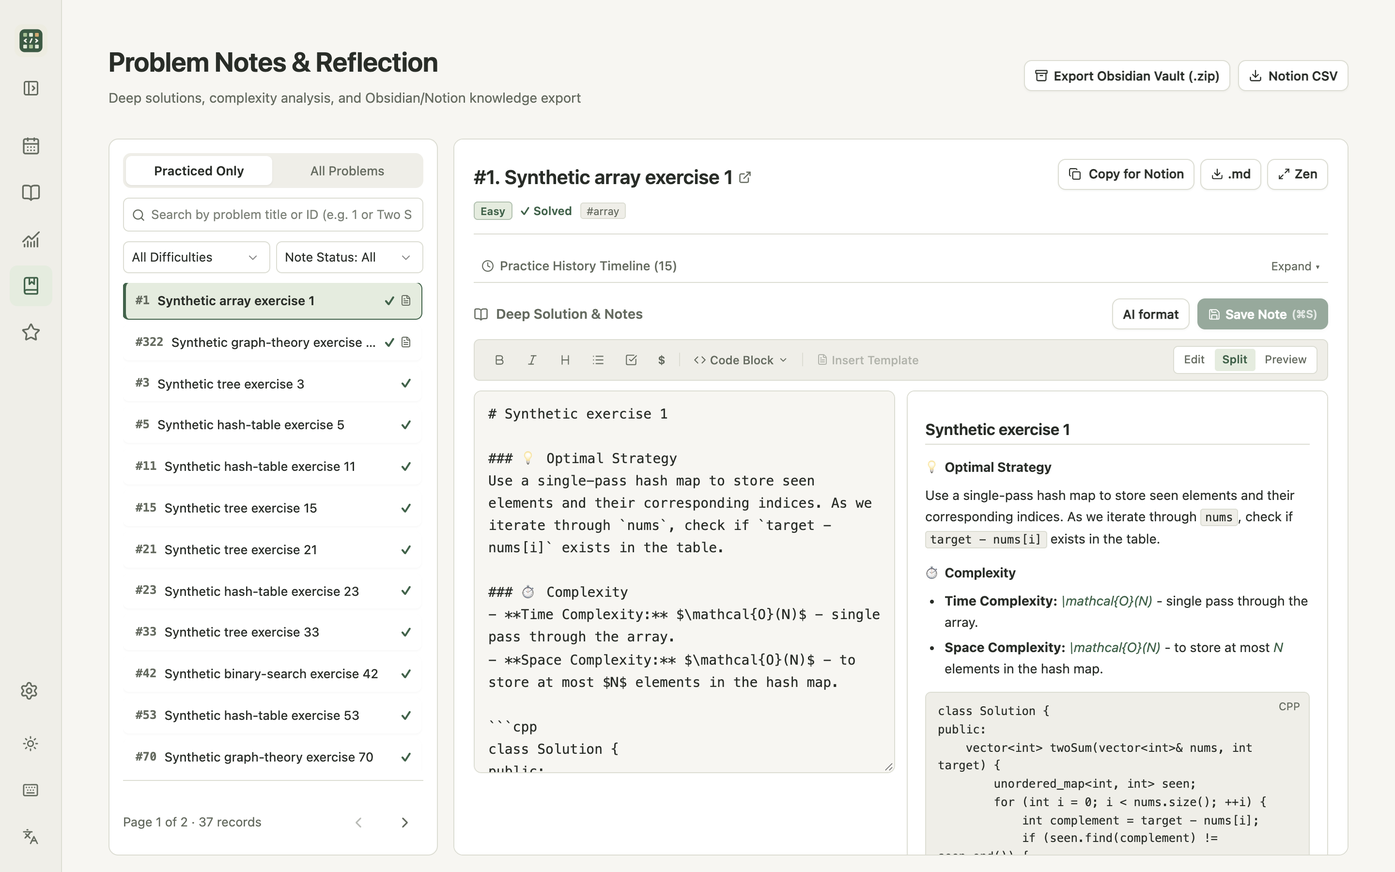
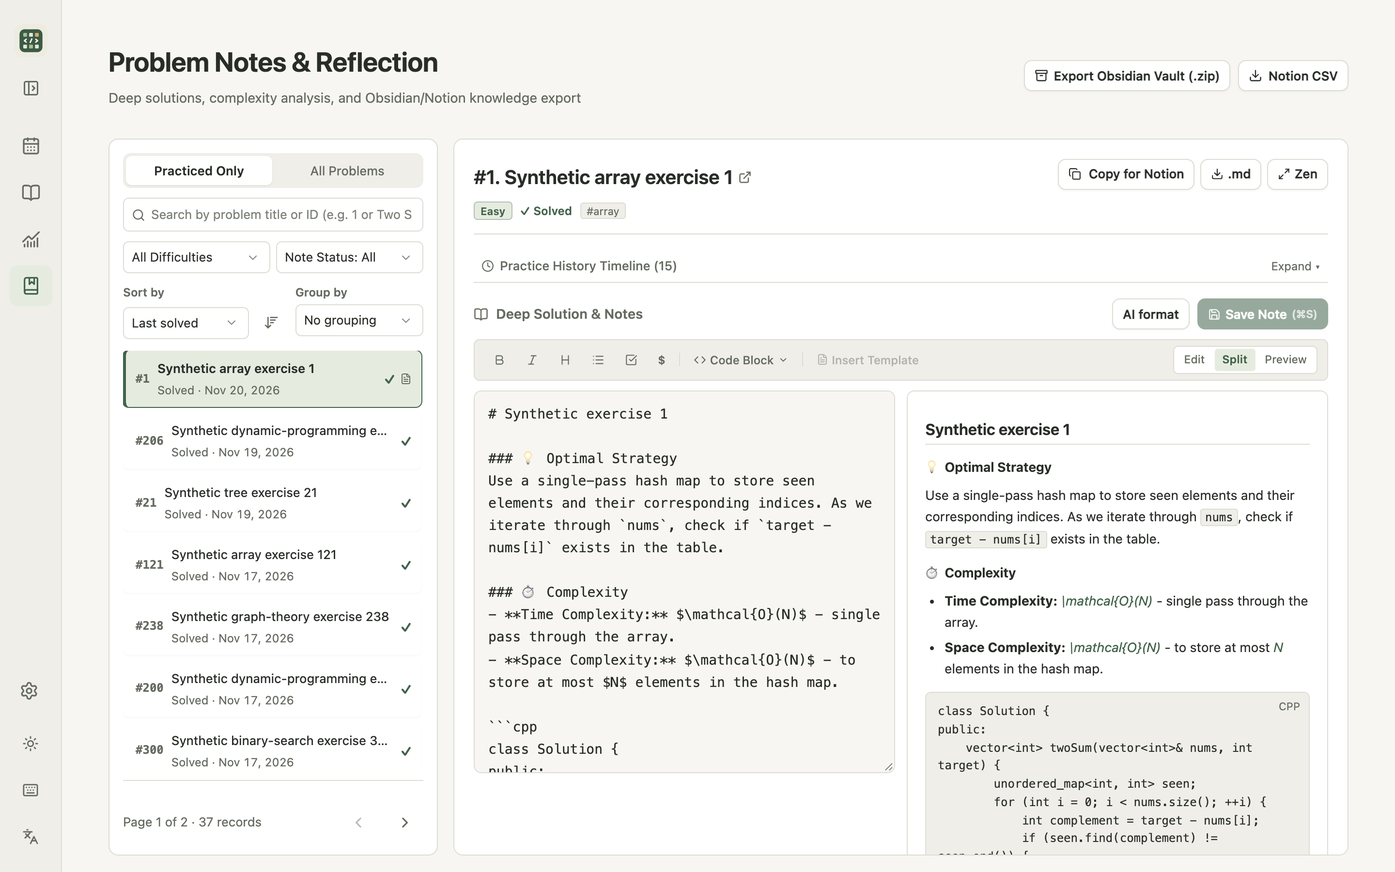
chore: prepare the 1.5.1 release candidate

Changed region(s): [[0.0625, 0.3111, 0.3125, 0.5911], [0.0938, 0.6222, 0.2812, 0.9022]]

diff --git a/packages/database/src/store.ts b/packages/database/src/store.ts
@@ -761,7 +761,7 @@ export class CatalogStore {
 
   /** Export catalog and all saved business history for another device. */
   public exportMigrationBundle(versionOrOptions: 2 | 3 | 5 | { formatVersion?: 2 | 3 | 5 } = 5): SnapshotBundleV2 | SnapshotBundleV3 | SnapshotBundleV5 {
-    return exportMigrationBundle(this.db, '1.5.0', versionOrOptions);
+    return exportMigrationBundle(this.db, '1.5.1', versionOrOptions);
   }
 
   /** Atomically restore database state from a SnapshotBundle with automatic safety backup. */

diff --git a/apps/server/src/app.ts b/apps/server/src/app.ts
@@ -24,7 +24,7 @@ import { createTrackerApplication } from '../../../packages/application/src/appl
 import { localModelService } from '../../mcp/src/profile.ts';
 
 /** Version reported by health checks and written into sync snapshots. */
-export const APP_VERSION = '1.5.0';
+export const APP_VERSION = '1.5.1';
 
 /** Options for building Fastify app. */
 export interface AppOptions {

diff --git a/apps/mcp/src/version.ts b/apps/mcp/src/version.ts
@@ -1,2 +1,2 @@
 /** Reported in MCP initialization and tracker_status; keep in step with apps/mcp/package.json. */
-export const MCP_SERVER_VERSION = '1.5.0';
+export const MCP_SERVER_VERSION = '1.5.1';

diff --git a/README.md b/README.md
@@ -16,7 +16,7 @@ A local-first desktop workbench for algorithm practice: bring your own JSONL cat
 
 LeetCode Tracker packages the React interface, Fastify API, SQLite engine (schema v12), and a private Node.js 26.13.0 runtime into native Tauri desktop apps for **Windows 11 x64** and **Apple Silicon macOS 14+** (`aarch64-apple-darwin`) with aligned behavior and a single-file cross-device migration bundle. **End users do not need to install Node.js, npm, Git, or Rust.**
 
-Version 1.5.0 adds ordered goal lists, a Favorites library, and a new Today overview. Use App updates to upgrade from 1.4.0 or 1.4.1. Upgrading from 1.3.1 requires one manual install. [1.5.0 release notes](docs/releases/1.5.0.md)
+Version 1.5.1 brings the catalog, favorites and goal lists into one Problems workspace. Use App updates on official desktop builds from 1.4.0 onward. Upgrading from 1.3.1 or earlier requires one manual install. [1.5.1 release notes](docs/releases/1.5.1.md)
 
 ## Download and start
 
@@ -24,8 +24,8 @@ Download the installer for your OS from the [latest release](https://github.com/
 
 | Platform | Download | How to install & open |
 | --- | --- | --- |
-| **Windows 11 x64** | `LeetCode-Tracker_1.5.0_x64-setup.exe` | 1. Run the per-user installer (no administrator rights needed).<br>2. If Windows SmartScreen warns that the installer is unsigned, click **More info → Run anyway**.<br>3. Launch **LeetCode Tracker** from the Start Menu or Desktop shortcut. |
-| **macOS 14+ (Apple Silicon)** | `LeetCode-Tracker_1.5.0_aarch64.dmg` | 1. Open the `.dmg` and drag **LeetCode Tracker.app** into **Applications**.<br>2. Because the bundle is ad-hoc signed and unnotarized, if Gatekeeper warns on first open, go to **System Settings → Privacy & Security → Open Anyway** (or right-click **LeetCode Tracker.app → Open**). If needed, verify checksum and run `xattr -cr "/Applications/LeetCode Tracker.app"`.<br>3. Closing the red window button hides the window while keeping the sidecar ready in the Dock; click the Dock icon to reopen or press `Cmd+Q` to quit cleanly. |
+| **Windows 11 x64** | `LeetCode-Tracker_1.5.1_x64-setup.exe` | 1. Run the per-user installer (no administrator rights needed).<br>2. If Windows SmartScreen warns that the installer is unsigned, click **More info → Run anyway**.<br>3. Launch **LeetCode Tracker** from the Start Menu or Desktop shortcut. |
+| **macOS 14+ (Apple Silicon)** | `LeetCode-Tracker_1.5.1_aarch64.dmg` | 1. Open the `.dmg` and drag **LeetCode Tracker.app** into **Applications**.<br>2. Because the bundle is ad-hoc signed and unnotarized, if Gatekeeper warns on first open, go to **System Settings → Privacy & Security → Open Anyway** (or right-click **LeetCode Tracker.app → Open**). If needed, verify checksum and run `xattr -cr "/Applications/LeetCode Tracker.app"`.<br>3. Closing the red window button hides the window while keeping the sidecar ready in the Dock; click the Dock icon to reopen or press `Cmd+Q` to quit cleanly. |
 
 > [!TIP]
 > **Running from a source checkout instead?** Run `npm run desktop` (works on both Windows and macOS), `start.bat` on Windows, or `npm run desktop:mac` / `./scripts/start-desktop.sh` on macOS (pass `--port 3001` or `PORT=3001` to customize the port). Source mode requires **Node.js >=26.13.0 <27**.
@@ -37,7 +37,7 @@ Download the installer for your OS from the [latest release](https://github.com/
    - **Problems**: Import your own JSON Lines (`.jsonl`) catalog (upload a file or paste text).
    - **Study rhythm**: Pick the recommended weekday preset (`Weekdays · 3 a day`, 1 Easy + 2 Medium with 1 review) or open **Study schedule** to customize counts, difficulty mix, topic tags, and review mode. Any step can be skipped and updated later.
 2. **Daily practice & timer (`Today` & `Problems`)**: Click a problem title to open it in your system browser, use the built-in stopwatch to time your attempt, and click the completion circle to log completion (with optional duration, outcome feedback `Independent` / `Assisted` / `Unsolved`, and short notes). Use **Add one**, **Adjust today**, or **Replace** anytime.
-   - **Goal lists**: Open **Problems → Goal lists** to browse all lists, check their progress, or edit their contents. **Use on Today** selects the list for daily practice. Today shows daily plan progress, the selected goal’s completion in saved order, and a seven-day solve chart above the two task lists. Select a day to see its practice records. Use the list selector to switch goals. In **Today → New list**, search your catalog or paste problem IDs in practice order. In **Problems**, check rows across pages or filters and choose **Create goal list**. The draft starts in problem-number order and can be rearranged before saving. Scroll the list and check off problems as you go. **Edit** lets you reorder, replace, remove, or reopen an entry. Checking a problem shared with today’s strategy completes both entries with one practice record. Correcting or revoking its supporting practice updates the linked checkmark. It stays checked while another qualifying record exists. Goal-only and older checkmarks without a recorded link stay local to their list.
+   - **Goal lists**: Open **Problems → Goal lists** to browse all lists, check their progress, or edit their contents. **Use on Today** selects the list for daily practice. Today shows daily plan progress, the selected goal’s completion in saved order, and a seven-day solve chart above the two task lists. Select a day to see its practice records. Use the list selector to switch goals. In **Today → New list**, search your catalog or paste problem IDs in practice order. In **Problems**, check rows across pages or filters and choose **Create goal list**. The draft starts in problem-number order and can be rearranged before saving. Scroll the list and check off problems as you go. **Edit** lets you reorder, replace, remove, or reopen an entry. Checking a goal-only problem on Today saves practice and offers optional details. When the goal entry is shared with today’s strategy, both entries use the same completion evidence, including an imported Accepted submission. Correcting or revoking that evidence reopens the linked entries when no other qualifying evidence remains. Older unlinked checkmarks stay local to their list.
    - In **Today**, click the star beside a strategy task or goal-list problem. Choose any folders and click **Save favorite**, or leave them unchecked to save only to **All favorites**. Click a filled star to change folders or remove the favorite.
    - In **Problems**, the star saves a problem in **All favorites** and any folders you select. To save several at once, check rows in **Problems** and choose **Favorite**. This adds them to the selected folders and keeps their existing memberships. Open **Problems → Favorites** to browse your saved problems and manage folders. In **Favorites**, check problems across folders or pages, then choose **Create goal list** or **Unfavorite**. Confirming removal clears the selected problems from every favorite folder.
    - Use the flag beside a problem in **Problems**, **Favorites** or **Today** to choose its goal lists or create one. A filled flag means the problem belongs to at least one list. Adding it to another list places it at the end.
@@ -45,7 +45,7 @@ Download the installer for your OS from the [latest release](https://github.com/
 3. **Review progress & Topic Insights (`Progress`)**: View outcome KPIs, the 365-day activity heatmap, difficulty mastery, topics worth attention, and the searchable, recency-ordered **Topic Insights** table (expand any topic row for 30-day evidence).
 4. **Write notes, export, or switch computers (`Notes` & `Settings`)**: Edit Markdown notes with Split/Edit/Preview modes, local format-on-save (with undo), optional AI formatting, and Notion card copying or Markdown, ZIP, and CSV export. Moving between Windows and macOS? Export one **Snapshot Bundle v5** under **Settings → Data → Export migration file** and import it on the other computer (**Settings → Data → Import migration file**).
 
-The Windows installer is **unsigned** and uses the Evergreen WebView2 runtime (downloading its bootstrapper if missing, which requires internet access). Windows 11 x64 is the primary Windows target; clean-machine installation, Windows 10 compatibility, Apple Developer ID notarization, and non-developer Mac Gatekeeper UX remain outside automated checks. See [installation, data paths, and troubleshooting](docs/desktop.md) and [1.5.0 release notes](docs/releases/1.5.0.md).
+The Windows installer is **unsigned** and uses the Evergreen WebView2 runtime (downloading its bootstrapper if missing, which requires internet access). Windows 11 x64 is the primary Windows target; clean-machine installation, Windows 10 compatibility, Apple Developer ID notarization, and non-developer Mac Gatekeeper UX remain outside automated checks. See [installation, data paths, and troubleshooting](docs/desktop.md) and [1.5.1 release notes](docs/releases/1.5.1.md).
 
 ### Bring your own catalog
 
@@ -82,7 +82,7 @@ Browse a filterable problem list alongside a Markdown editor and CommonMark/GFM 
 
 ### Appearance and keyboard access
 
-Ten palettes, English/Chinese text, and light/dark/system appearance support desktop work, and selecting a palette dynamically tints the window/Dock icon to match. The eight screenshots show 1.5.0 in English with the default light palette and synthetic catalog and practice data.
+Ten palettes, English/Chinese text, and light/dark/system appearance support desktop work, and selecting a palette dynamically tints the window/Dock icon to match. The eight screenshots show 1.5.1 in English with the default light palette and synthetic catalog and practice data.
 
 | Shortcut | Action |
 | --- | --- |
@@ -154,7 +154,7 @@ CI checks TypeScript, automated tests, the production frontend, documentation, n
 
 ## Documentation
 
-- [Documentation index](docs/README.md) · [Desktop installation](docs/desktop.md) · [1.5.0 release notes](docs/releases/1.5.0.md) · [MCP setup](apps/mcp/README.md)
+- [Documentation index](docs/README.md) · [Desktop installation](docs/desktop.md) · [1.5.1 release notes](docs/releases/1.5.1.md) · [MCP setup](apps/mcp/README.md)
 - [Data format](docs/data-format.md) · [Device sync](docs/sync.md) · [AI providers](docs/llm-providers.md) · [Topic insights](docs/topic-practice-insights.md)
 - [Architecture](docs/architecture.md) · [Applications](apps/README.md) · [Shared packages](packages/README.md)
 - [Tests](tests/README.md) · [Scripts](scripts/README.md) · [Roadmap](docs/roadmap.md)

diff --git a/docs/desktop.md b/docs/desktop.md
@@ -1,8 +1,8 @@
 # Desktop Application & Distribution Guide
 
-LeetCode Tracker provides native desktop packages for **Windows 11 x64** (`LeetCode-Tracker_1.5.0_x64-setup.exe`, NSIS installer) and **Apple Silicon macOS 14+** (`LeetCode-Tracker_1.5.0_aarch64.dmg`, ad-hoc signed `.app`/`.dmg`). Both platforms run the exact same local-first React UI, Fastify `/api/v1` service, SQLite v12 storage engine, and bundled private **Node.js 26.13.0** runtime. End users have **zero requirement** to install Node.js, npm, Git, or Rust.
+LeetCode Tracker provides native desktop packages for **Windows 11 x64** (`LeetCode-Tracker_1.5.1_x64-setup.exe`, NSIS installer) and **Apple Silicon macOS 14+** (`LeetCode-Tracker_1.5.1_aarch64.dmg`, ad-hoc signed `.app`/`.dmg`). Both platforms run the exact same local-first React UI, Fastify `/api/v1` service, SQLite v12 storage engine, and bundled private **Node.js 26.13.0** runtime. End users have **zero requirement** to install Node.js, npm, Git, or Rust.
 
-Download installers and `SHA256SUMS.txt` from the [latest release](https://github.com/Yide-Milo-Li/LeetCode-Tracker/releases/latest). Automated boundary tests and local/CI packaging do not establish clean-VM Windows installation, populated-profile upgrade/downgrade compatibility, Windows 10 compatibility, Apple notarization, or the full WebView2/Gatekeeper acceptance matrix; see the [1.5.0 release notes](releases/1.5.0.md).
+Download installers and `SHA256SUMS.txt` from the [latest release](https://github.com/Yide-Milo-Li/LeetCode-Tracker/releases/latest). Automated boundary tests and local/CI packaging do not establish clean-VM Windows installation, populated-profile upgrade/downgrade compatibility, Windows 10 compatibility, Apple notarization, or the full WebView2/Gatekeeper acceptance matrix; see the [1.5.1 release notes](releases/1.5.1.md).
 
 ### Known 1.0.0 startup failure
 
@@ -30,7 +30,7 @@ The historical published 1.0.0 Windows host can fail before readiness because Ta
 
 #### Scope & Requirements
 - **Target hardware & OS**: Apple Silicon (`arm64` / `aarch64-apple-darwin`), **macOS 14 (Sonoma) or newer**, using the built-in system `WKWebView` (no separate WebView runtime download required). Intel Macs, Universal binaries, Apple notarization, and App Store distribution are outside the current scope.
-- **Package**: Produces an ad-hoc signed (`signingIdentity: "-"`) `LeetCode Tracker.app` and `LeetCode-Tracker_1.5.0_aarch64.dmg` (`LeetCode Tracker_1.5.0_aarch64.dmg` from local Tauri output).
+- **Package**: Produces an ad-hoc signed (`signingIdentity: "-"`) `LeetCode Tracker.app` and `LeetCode-Tracker_1.5.1_aarch64.dmg` (`LeetCode Tracker_1.5.1_aarch64.dmg` from local Tauri output).
 
 #### Installation & First Launch (DMG / `.app`)
 1. Download the `_aarch64.dmg` disk image (and `SHA256SUMS.txt`) from the [latest release](https://github.com/Yide-Milo-Li/LeetCode-Tracker/releases/latest), double-click the `.dmg`, and drag **LeetCode Tracker.app** into **Applications** (do not run directly from inside the read-only DMG if you want standard Dock pinning and upgrades; user data is always stored outside the `.app` under `~/Library/Application Support/com.leetcodetracker.desktop/`).
@@ -52,7 +52,7 @@ The historical published 1.0.0 Windows host can fail before readiness because Ta
 
 | Area | Windows 11 x64 | macOS 14+ (Apple Silicon) |
 | --- | --- | --- |
-| **Installer / Package** | Per-user NSIS `.exe` (`LeetCode-Tracker_1.5.0_x64-setup.exe`) | Ad-hoc signed `.dmg` / `.app` (`LeetCode-Tracker_1.5.0_aarch64.dmg`) |
+| **Installer / Package** | Per-user NSIS `.exe` (`LeetCode-Tracker_1.5.1_x64-setup.exe`) | Ad-hoc signed `.dmg` / `.app` (`LeetCode-Tracker_1.5.1_aarch64.dmg`) |
 | **WebView Runtime** | Evergreen WebView2 (`downloadBootstrapper`) | Built-in system `WKWebView` |
 | **Bundled Sidecar** | Private `Node.js 26.13.0` (`node.exe`) + `desktop-server.mjs` | Private `Node.js 26.13.0` (`node`) + `desktop-server.mjs` |
 | **Window Close vs Quit** | Closing main window initiates graceful sidecar shutdown (10s deadline) | Red close button hides window; Dock click reopens; `Cmd+Q` initiates graceful shutdown (10s deadline) |
@@ -84,7 +84,7 @@ On Windows the NSIS installer closes and relaunches the app. If Windows reports 
 
 Version 1.3.1 and earlier require one manual upgrade to the first release with app updates. In ordinary branch builds, the update panel shows the current version and a link to manual installers. Tag builds configure the verification key and stable update feed.
 
-Version 1.5.0 uses the same update channel and profile location. Official 1.4.0 and 1.4.1 clients can install it from App updates. [1.5.0 release notes](releases/1.5.0.md)
+Version 1.5.1 uses the same update channel and profile location. Official 1.4.0 and later desktop clients can install it from App updates. [1.5.1 release notes](releases/1.5.1.md)
 
 ---
 

diff --git a/docs/desktop-workflow.md b/docs/desktop-workflow.md
@@ -45,7 +45,7 @@ Today shows daily plan progress, the selected goal's progress in saved order, an
 
 In **Problems → Goal lists**, search across every page by list name, or sort by name, remaining problems or completion rate. The sort arrow switches between ascending and descending order, as in Notes. Expand a list to see its problems in practice order. **Filter problems** narrows the list by problem ID, title or completion status. **Use on Today** switches the active checklist. You can also reach the directory through **Today → Manage lists**.
 
-Create a goal list by searching the catalog or pasting problem IDs in order. In Problems or Favorites, select rows across pages to create a list or append to existing lists. Appending skips existing entries and adds new ones in natural problem ID order. Use **Edit** to move, replace, remove, or reopen entries. A goal-only check stays in its list. When the problem is also in today's active plan, a completion uses the same practice evidence for both places. Correcting or revoking the evidence reopens the linked check when no qualifying record remains. Older unlinked checks remain manual.
+Create a goal list by searching the catalog or pasting problem IDs in order. In Problems or Favorites, select rows across pages to create a list or append to existing lists. Appending skips existing entries and adds new ones in natural problem ID order. Use **Edit** to move, replace, remove, or reopen entries. Checking a goal-only problem on Today saves one practice record and offers optional details. When the problem is also in today's active plan, both entries use the same evidence, including an imported Accepted submission. Correcting or revoking the evidence reopens the linked check when no qualifying record remains. Older unlinked checks remain manual.
 
 Use the star to save a problem to All favorites and optionally to one or more folders. When you have many folders, **Browse folders** lets you search by folder name or sort by problem count. In the folder and goal list checklists, filtering or paging keeps your selections until you save. Use the Problems batch action to add stars while keeping existing folder memberships. Deleting a folder keeps its problems starred. Unfavoriting from a selection removes those stars from every folder.
 

diff --git a/apps/README.md b/apps/README.md
@@ -9,7 +9,7 @@ Users provide problem records in JSON Lines (`.jsonl`) format. The application c
 - **`apps/server`**: Local Fastify API service listening strictly on loopback (`127.0.0.1`). Provides `/api/v1` endpoints for preflight preview, transactional import commit, catalog querying, tag listing, aggregated statistics, user preference persistence, and production static asset serving.
 - **`apps/web`**: React/TypeScript/Vite desktop client with Today, Problems, Progress and Notes navigation, bottom Settings, CSS token themes, Recharts analysis and Lucide icons. Today integrates completion and seven-day activity; Progress defaults to Statistics; Notes includes split preview, formatting, focus mode, and unsaved-draft switching protection. Contextual workspaces provide study schedules, catalog import and progress import. Shared practice forms and accessible overlays handle immediate completion, later metadata editing, exact-record revocation and historical manual entry. Local hash navigation retains mounted drafts, filters and scroll without a router or state library.
 
-Version 1.5.0 adds Favorites to desktop navigation and ordered goal lists to Today. The server and MCP adapters expose the same operations for favorite folders and goal membership. [Application boundaries](../docs/application-boundaries.md)
+The Problems workspace includes the catalog, Favorites and Goal lists. Today shows the selected checklist. The server and MCP adapters expose the same operations for favorite folders and goal membership. [Application boundaries](../docs/application-boundaries.md)
 
 ## Running applications
 

diff --git a/docs/README.md b/docs/README.md
@@ -1,10 +1,10 @@
 # Documentation index
 
-[1.5.0 release notes](releases/1.5.0.md) · [1.4.1 release notes](releases/1.4.1.md) · [1.4.0 release notes](releases/1.4.0.md) · [Desktop installation and native runtime (Windows & macOS)](desktop.md) · [Current verification and limitations](status.md)
+[1.5.1 release notes](releases/1.5.1.md) · [1.5.0 release notes](releases/1.5.0.md) · [1.4.1 release notes](releases/1.4.1.md) · [1.4.0 release notes](releases/1.4.0.md) · [Desktop installation and native runtime (Windows & macOS)](desktop.md) · [Current verification and limitations](status.md)
 
 Users provide their own JSONL problem metadata with appropriate usage rights. The application creates its own SQLite database. Catalog import and progress import are separate implemented workflows; the repository contains no dataset.
 
-All maintained documentation is English. Version 1.5.0 supports Chinese and English across Today, Problems, Progress, Notes, Favorites, and Settings. The published release includes a Windows 11 x64 Tauri NSIS installer and an Apple Silicon macOS 14+ `.app`/`.dmg` package. Browser source mode remains available on both platforms.
+All maintained documentation is English. The app supports Chinese and English across Today, Problems, Progress, Notes and Settings. Problems includes the catalog, Favorites and Goal lists. Desktop releases include a Windows 11 x64 Tauri NSIS installer and an Apple Silicon macOS 14+ `.app`/`.dmg` package. Browser source mode remains available on both platforms.
 
 ## Architecture & System Design
 

diff --git a/docs/releases/1.5.1.md b/docs/releases/1.5.1.md
@@ -1,0 +1,7 @@
+# LeetCode Tracker 1.5.1
+
+- **Problems.** Open the catalog, Favorites or Goal lists from one sidebar entry. Search and sort goal lists and large favorite libraries. The folder and goal pickers keep your selections as you filter or change pages. **Use on Today** makes a goal list your active checklist.
+- **Notes.** Sort by last solved or last note update, and switch between ascending and descending order. Group problems by goal list or favorite folder.
+- **Practice.** Checking a goal-only problem on Today saves a practice record and offers optional duration, outcome and notes. If an imported Accepted submission already completed the same problem in today's strategy, the goal check reuses it. Revoking the import reopens both entries when it was the only qualifying evidence.
+
+Use **Settings → General → App updates** on official desktop builds from 1.4.0 onward. Upgrades keep the same profile location, SQLite schema v12 and Snapshot Bundle v5. [Desktop updates](../desktop.md#14-app-updates) · [Verification](../status.md)

diff --git a/docs/status.md b/docs/status.md
@@ -1,5 +1,11 @@
 # Implementation status
 
+## Release 1.5.1
+
+The Problems workspace groups the catalog, Favorites and Goal lists. Notes can sort and group problems, and a shared goal check can reuse an imported completion from Today's strategy. [Release notes](releases/1.5.1.md)
+
+Local candidate checks passed type checking, the production build and 707 application, renderer and bundled-sidecar tests. The goal regression covers concurrent requests, a next-day retry and revoking the imported evidence. An isolated 1.5.0 profile retained its catalog, practice, notes, favorites and goal order in 1.5.1. Its exported Snapshot Bundle v5 restored into 1.5.0 with all 22 tables intact. The refreshed README gallery uses synthetic data. [Candidate CI](https://github.com/Yide-Milo-Li/LeetCode-Tracker/actions/workflows/ci.yml?query=branch%3Arelease%2F1.5.1)
+
 ## Release 1.5.0
 
 Version 1.5.0 adds ordered goal lists, favorite folders, shared practice completion, and a Today activity overview. [Release notes](releases/1.5.0.md)

diff --git a/apps/mcp/README.md b/apps/mcp/README.md
@@ -2,7 +2,7 @@
 
 A [Model Context Protocol](https://modelcontextprotocol.io) server for LeetCode Tracker. It lets Claude Code, Claude Desktop, Codex, Antigravity and other MCP clients read and update your local problem catalog, study plans, practice history, notes and progress. It runs over stdio and works independently or through the desktop app's loopback service.
 
-Desktop 1.5.0 bundles MCP server version `1.5.0` with goal list and favorites tools. [Desktop downloads](https://github.com/Yide-Milo-Li/LeetCode-Tracker/releases/latest) · [1.5.0 release notes](../../docs/releases/1.5.0.md)
+Desktop 1.5.1 bundles MCP server version `1.5.1` with goal list and favorites tools. [Desktop downloads](https://github.com/Yide-Milo-Li/LeetCode-Tracker/releases/latest) · [1.5.1 release notes](../../docs/releases/1.5.1.md)
 
 ## Requirements
 

diff --git a/CHANGELOG.md b/CHANGELOG.md
@@ -1,5 +1,13 @@
 # Changelog
 
+## [1.5.1]
+
+- Bring the catalog, Favorites and Goal lists together in Problems. Search, sort and page through large collections, and keep selections while switching pages or filters.
+- Sort Notes by last solved or last note update in either direction, and group problems by goal list or favorite folder.
+- Offer optional practice details for goal-only completions. Reuse an imported Accepted submission when it already completes the same problem in today's strategy.
+
+See the [1.5.1 release notes](docs/releases/1.5.1.md).
+
 ## [1.5.0] - 2026-11-20
 
 - Added ordered goal lists and a Favorites library. Select problems across catalog pages, organize stars in folders, and append selections to multiple goal lists.
